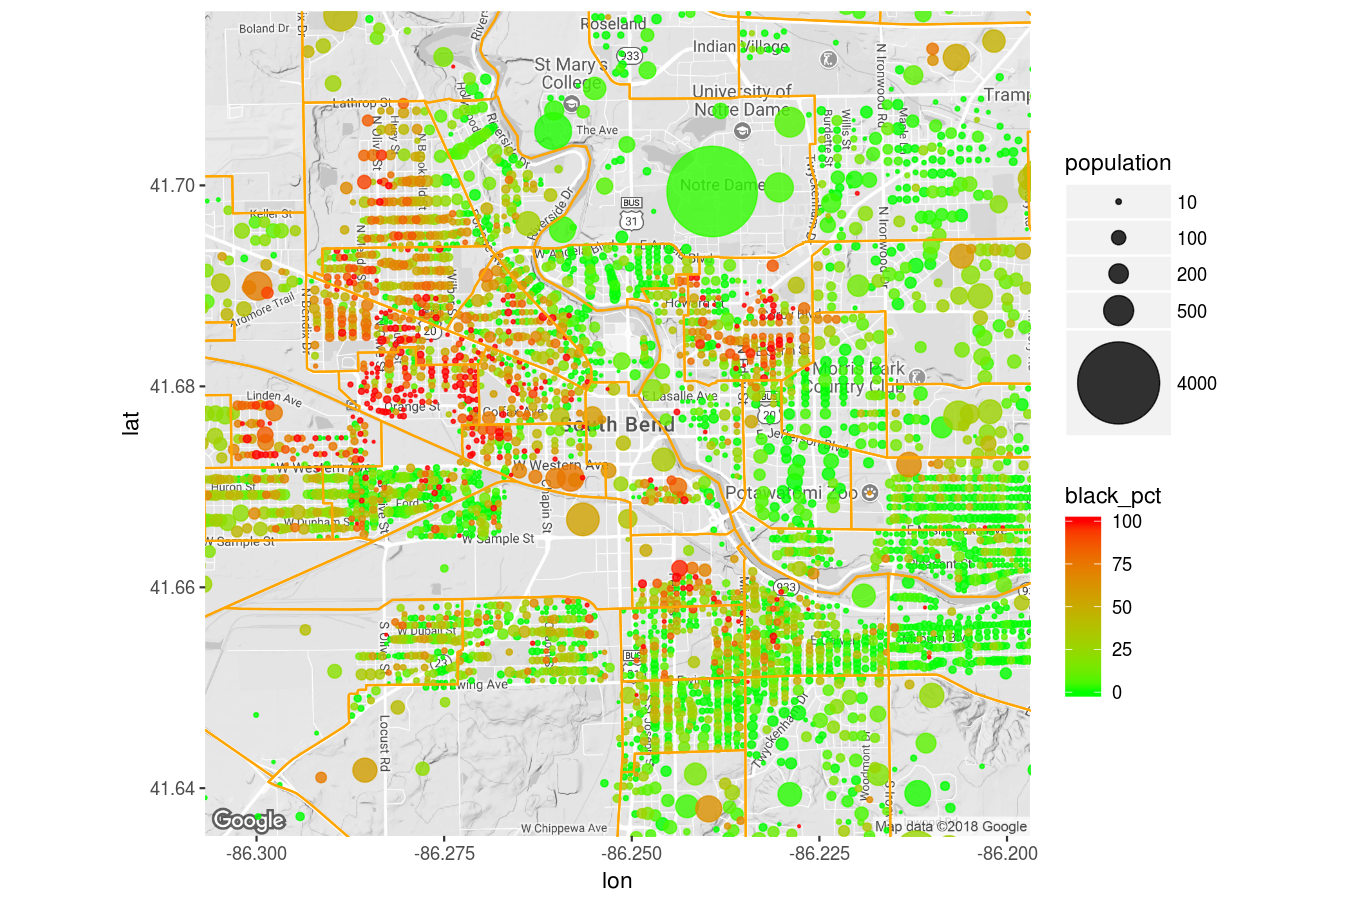
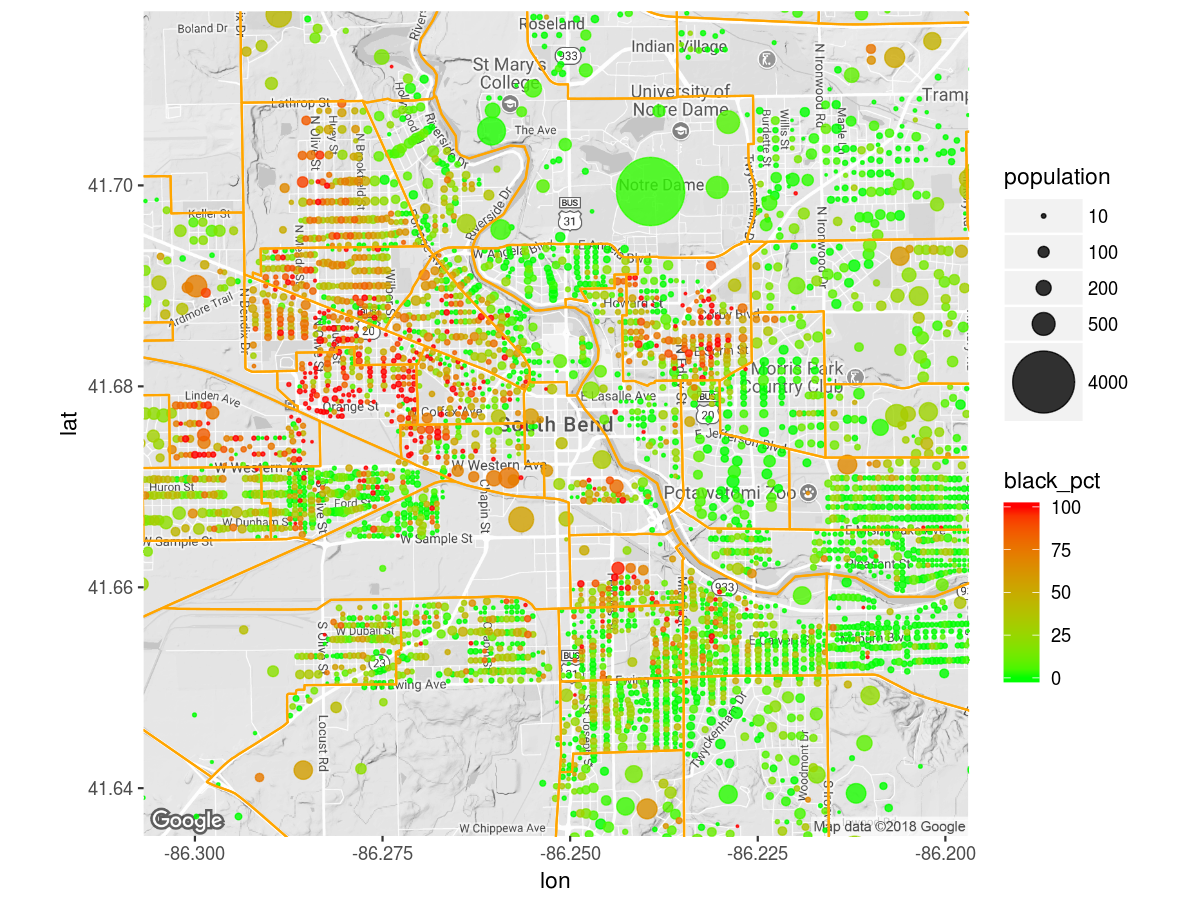
v0.1.1

diff --git a/README.md b/README.md
@@ -1,9 +1,9 @@
 [![Build Status](https://travis-ci.org/GL-Li/ggtiger.svg?branch=master)](https://travis-ci.org/GL-Li/ggtiger)
 
-Draw and fill in TIGER boundaries on ggmap
-==========================================
+Draw TIGER census boundaries on ggmap
+=====================================
 
-This package draws and fills in TIGER boundaries on ggmap with a single function geom\_bounday(). As an extension to ggplot2, geom\_boundary() works similarly to native ggplot2 geom\_xxxx() functions.
+This package draws and fills in TIGER census boundaries on ggmap with a single function geom\_bounday(). As an extension to ggplot2, geom\_boundary() works similarly to native ggplot2 geom\_xxxx() functions.
 
 Installation and setup
 ----------------------
@@ -16,7 +16,7 @@ devtools::install_github("GL-Li/ggtiger")
 
 ### Setup
 
-This package dowloads TIGER shape files into R with package `tigris`, converts them into `.csv` files and store them in your own computer. You need to create a directory to store the processed data. Let's call the folder `my_tiger_data` and assume the full path to this folder is `xxxxx/my_tiger_data`. Run the function below to set the path for the package.
+This package dowloads TIGER shape files into R with package `tigris`. The data is further processed and can be saved as `.csv` files in your own computer. You need to create a directory to store the processed data. Let's call the folder `my_tiger_data` and assume the full path to this folder is `xxxxx/my_tiger_data`. Run the function below to set the path for the package.
 
 ``` r
 set_path_to_tiger("xxxxx/my_tiger_data")
@@ -25,23 +25,25 @@ set_path_to_tiger("xxxxx/my_tiger_data")
 Examples
 --------
 
-By default, `geom_boundary()` draws all boundaries of a geography in the view of a ggmap (for lower 48 states). We can also choose to draw only those boundaries in a state, or in selected counties in a state within the map view.
+By default, `geom_boundary()` draws all boundaries of a geography in the view of a ggmap (for the lower 48 states). We can also choose to draw only those boundaries in a state, or in selected counties in a state within the map.
 
 ### Draw boundaries
 
-Boundaries of state, county, county subdivision, tract, and block group
+Boundaries of state, county, county subdivision, tract, and block group:
 
 ``` r
 library(ggtiger)
 ri <- get_map("scituate, RI, united states", zoom = 10, color = "bw")
 ggmap(ri) +
-    # tracts in two counties in Rhode Islan
+    # all tract boundaries in two counties in Rhode Islan
     geom_boundary("tract", state = "RI", county = c("providence", "washington"),
                   fill = NA, color = "orange", size = 0.2) +
-    # all counties in Rhode Island
-    geom_boundary("county", fill = NA, linetype = "dotted", color = "green", size = 0.3) +
-    # all state boundaries
-    geom_boundary("state", fill = NA, linetype = "dotted", color = "red", size = 0.5)
+    # all county boundaries in Rhode Island
+    geom_boundary("county", state = "RI", fill = NA, 
+                  color = "green", size = 0.3) +
+    # all state boundaries in the view
+    geom_boundary("state", fill = NA, linetype = "dotted", 
+                  color = "red", size = 0.5)
 ```
 
 ![](figures/boundaries.png)
@@ -50,14 +52,15 @@ Boundaries of zip code (zip code tabulation area, based on zip code):
 
 ``` r
 ggmap(ri) +
-    geom_boundary("zip code", fill = "green", alpha = 0.3, color = "red")
+    geom_boundary("zip code", fill = "green", alpha = 0.3, 
+                  color = "red", size = 0.1)
 ```
 
 ![](figures/zip_code.png)
 
 ### Fill in boudaries
 
-We can fill in boudaies using argument `data_fill` in `geom_boundary()`. The argument takes a data frame that has `GEOID` as the first column and fill-in values as the second column. The `GEOID` in the long form such as `14000US44009051502`, `05000US25007`, and `06000US2502777010` or short form such as `44009051502`, `25007`, and `2502777010`. If the data frame is extracted using census packages such as `tidycensus` and `totalcensus`, it already has the `GEOID` column.
+We can fill in boudaies using argument `data_fill` in `geom_boundary()`. The argument takes a data frame that has `GEOID` as the first column and fill-in values as the second column. If the data frame is extracted using census packages such as `tidycensus` and `totalcensus`, it already has the `GEOID` column.
 
 ``` r
 library(tidycensus)
@@ -99,7 +102,7 @@ p <- ggmap(sb) +
     geom_point(data = sb_black, alpha = 0.8,
                aes(lon, lat, size = population, color = black_pct)) +
     geom_boundary("tract", fill = NA, color = "orange", size = 0.5) +
-    scale_size_area(max_size = 20, breaks = c(10, 100, 200, 500, 4000)) +
+    scale_size_area(max_size = 15, breaks = c(10, 100, 200, 500, 4000)) +
     scale_color_continuous(low = "green", high = "red") 
 p
 ```
